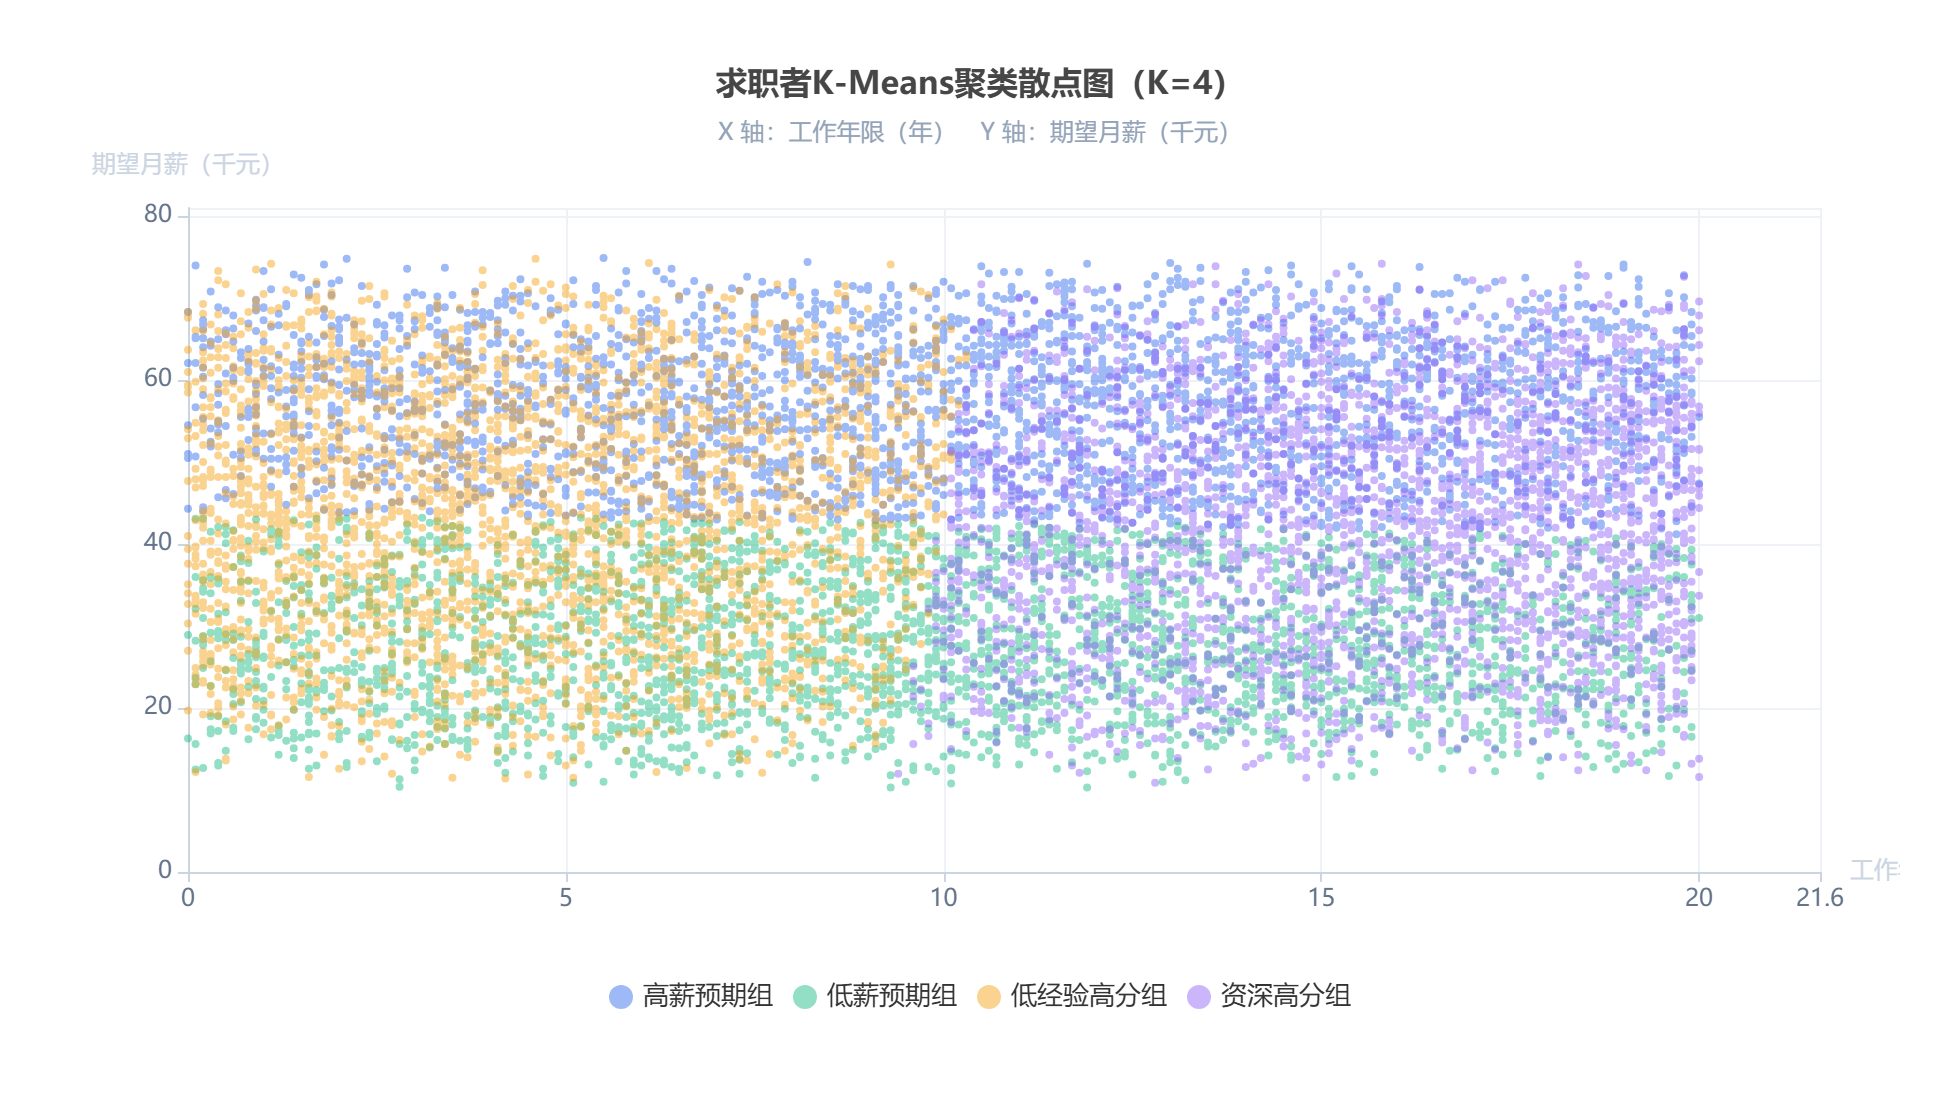
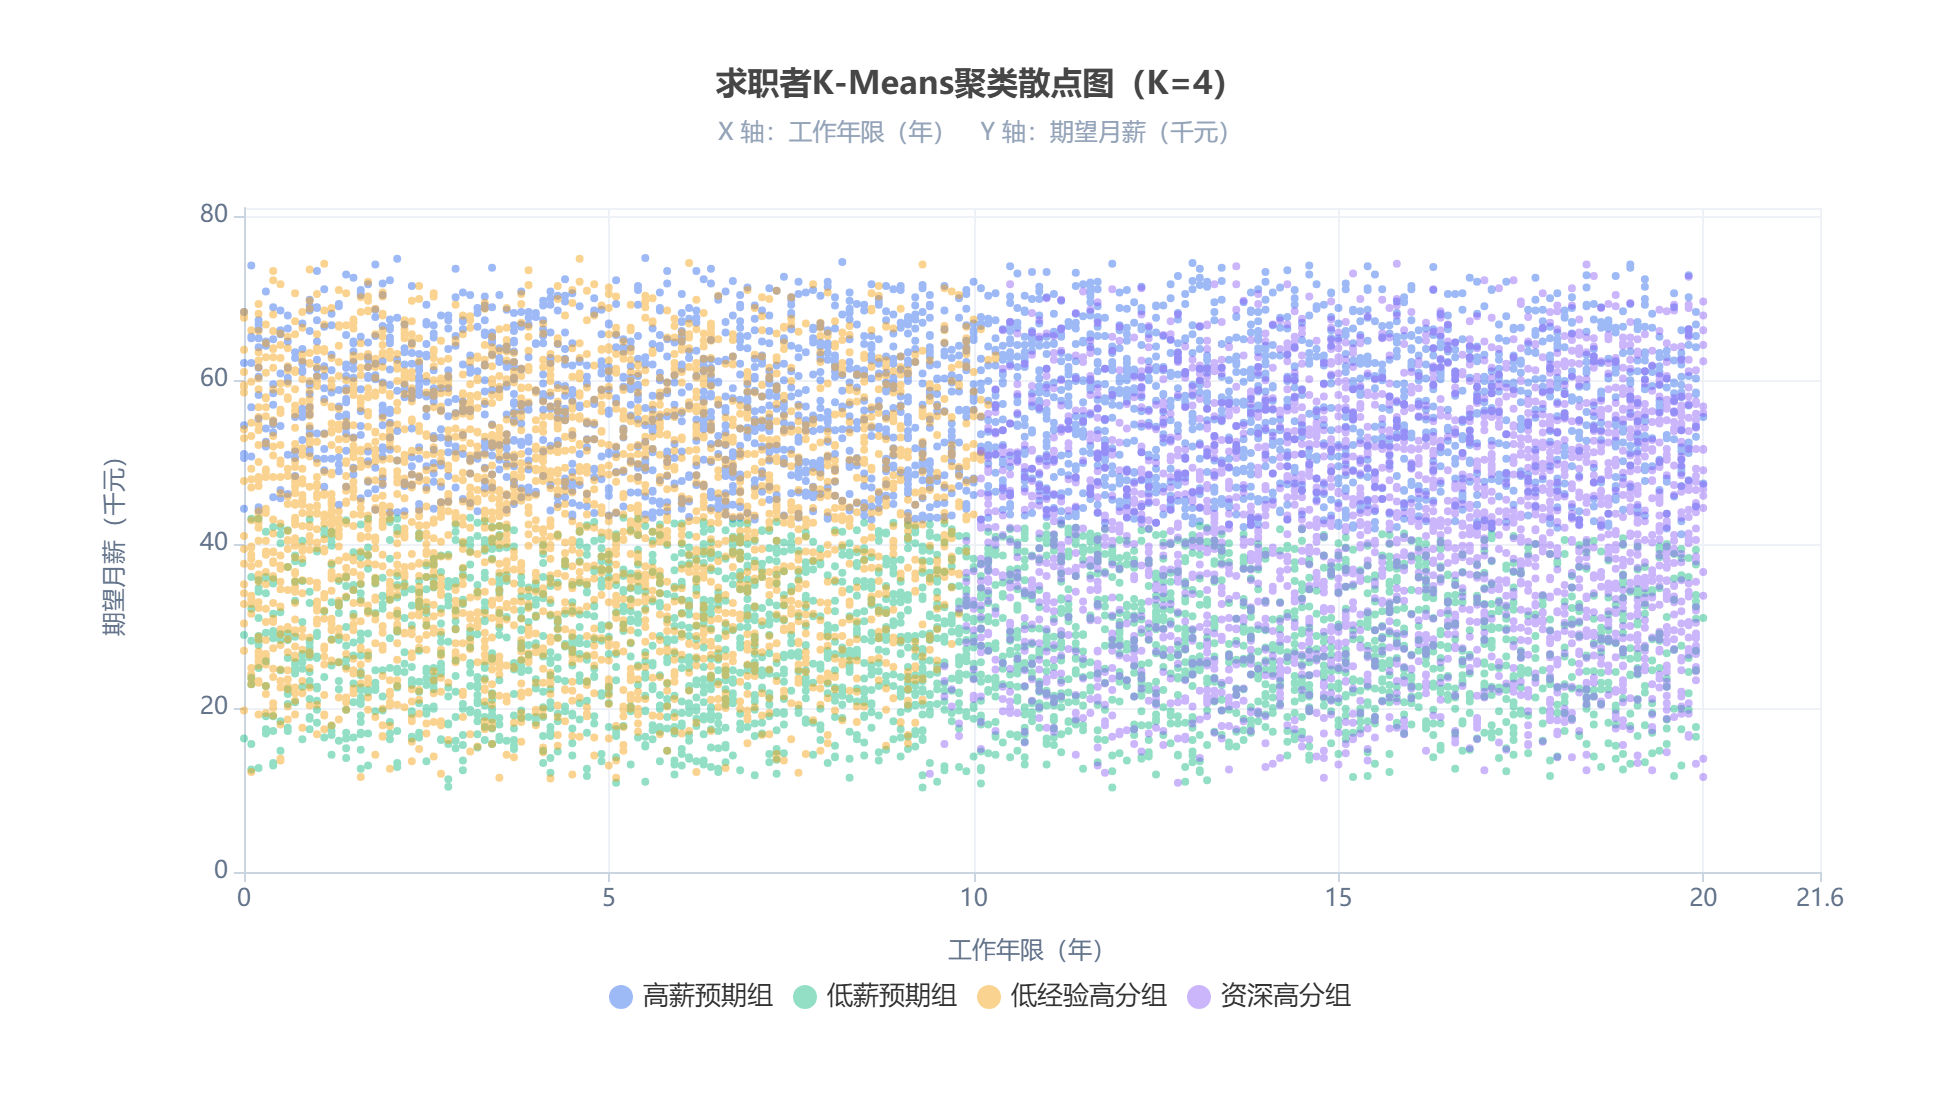
fix: 优化散点图轴标签与报告页标题
- 散点图：加大左边距，轴名称改为 middle 定位，修复 Y 轴「期望月薪（千元）」被截断
- 报告页：添加 front matter，避免 Jekyll 标题重复显示

diff --git a/docs/report.md b/docs/report.md
@@ -1,3 +1,7 @@
+---
+title: 项目完整报告
+---
+
 # 大数据招聘岗位数据分析 · 项目完整报告
 
 > **求职者画像聚类与应届生求职竞争力分析**
